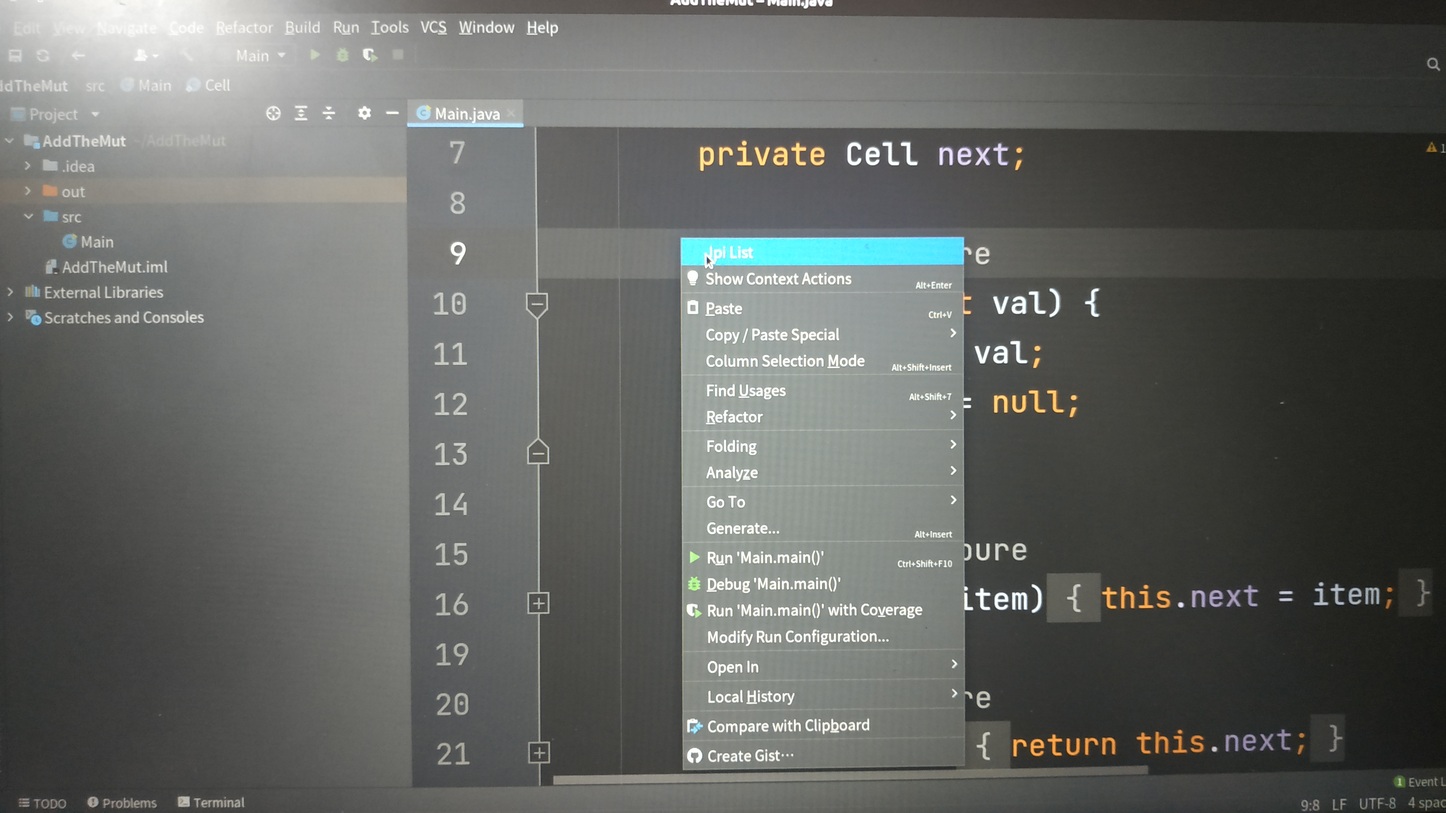
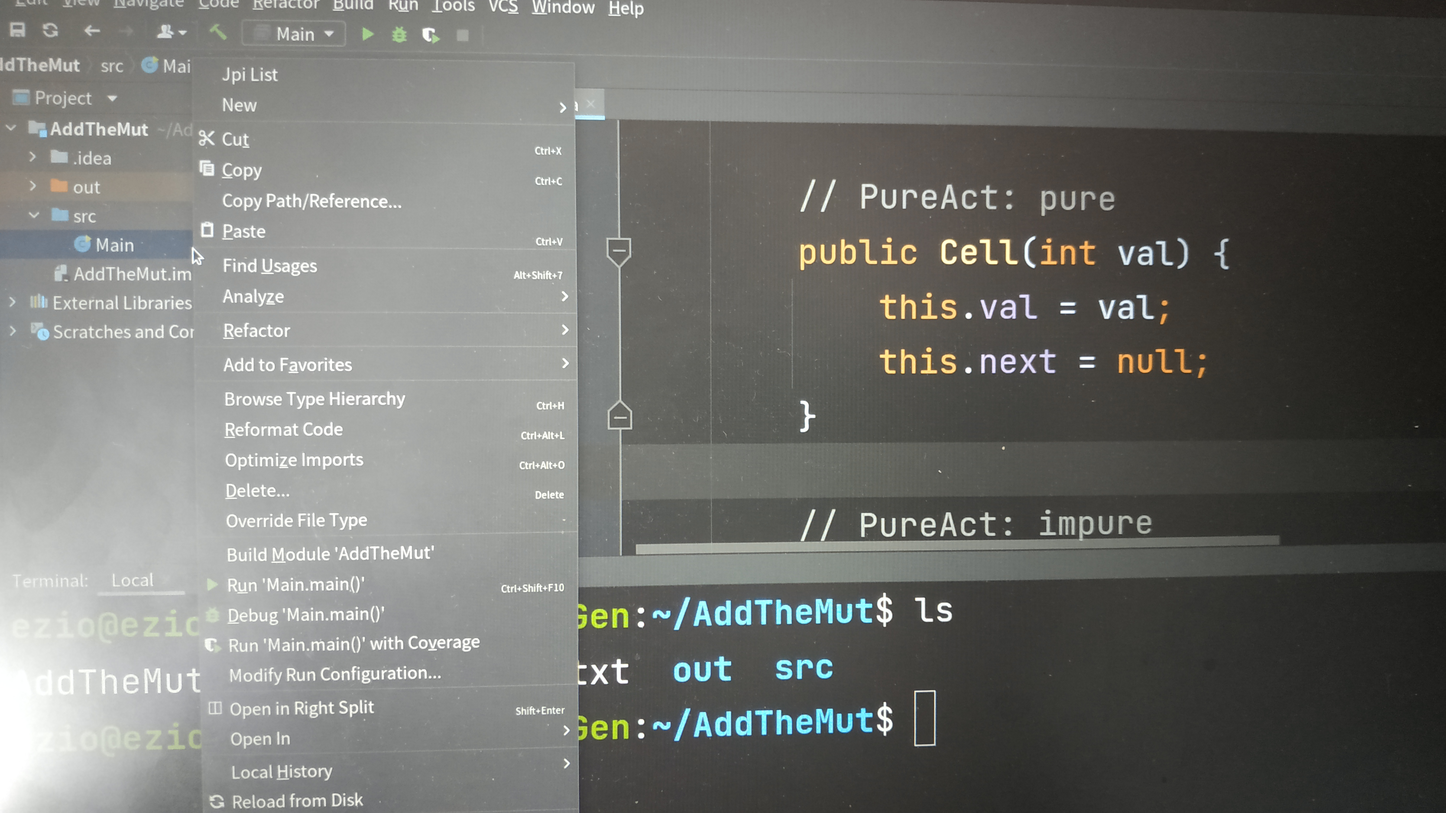
chg action group

diff --git a/readme.md b/readme.md
@@ -1,4 +1,4 @@
-##Jpi 插件使用说明
+## Jpi 插件使用说明
 
 
 0. 确定 intellij IDEA 版本为 2021.2 或之前版本。
@@ -11,7 +11,7 @@
 
 安装后重启IDE
 
-2. 从IDE打开工程，选择工程下目标 java 文件，右键选择 `Jpi List`
+2. 从IDE打开工程，在工程视图下选择目标 java 文件，右键选择 `Jpi List`
 
 ![Action](images/action.jpg)
 
